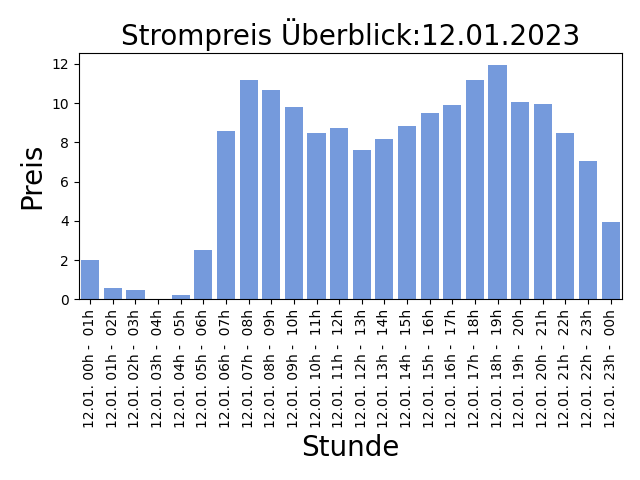
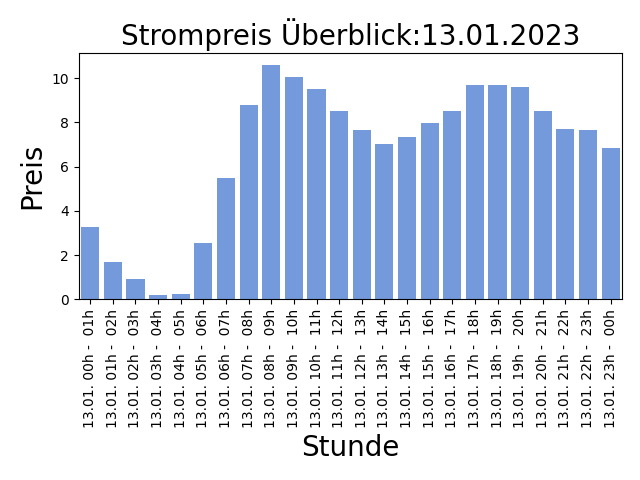
AUTOMATIC UPDATE PRICE LIST: 2023-01-12-14:30:47

diff --git a/README.md b/README.md
@@ -1,5 +1,5 @@
 
-## Strompreise für den 12.01.2023
+## Strompreise für den 13.01.2023
 
 Niedrige Preise deuten auf viel Sonnen und Windenergieerzeugung hin, ein hoher Anteil an erneuerbaren Energien bedeuted weniger CO2 Verbrauch!
 
@@ -7,31 +7,31 @@ Niedrige Preise deuten auf viel Sonnen und Windenergieerzeugung hin, ein hoher A
 
 | Stunde | Preis in Cent/kWh |
 |---|---|
-| 12.01. 00h -  01h | 1.988 | 
-| 12.01. 01h -  02h | 0.5549999999999999 | 
-| 12.01. 02h -  03h | 0.46900000000000003 | 
-| **12.01. 03h -  04h** | **0.01** | 
-| 12.01. 04h -  05h | 0.20299999999999999 | 
-| 12.01. 05h -  06h | 2.494 | 
-| 12.01. 06h -  07h | 8.572 | 
-| 12.01. 07h -  08h | 11.155 | 
-| 12.01. 08h -  09h | 10.683 | 
-| 12.01. 09h -  10h | 9.783 | 
-| 12.01. 10h -  11h | 8.474 | 
-| 12.01. 11h -  12h | 8.738 | 
-| 12.01. 12h -  13h | 7.587999999999999 | 
-| 12.01. 13h -  14h | 8.184000000000001 | 
-| 12.01. 14h -  15h | 8.82 | 
-| 12.01. 15h -  16h | 9.518 | 
-| 12.01. 16h -  17h | 9.908 | 
-| 12.01. 17h -  18h | 11.201 | 
-| 12.01. 18h -  19h | 11.949 | 
-| 12.01. 19h -  20h | 10.079 | 
-| 12.01. 20h -  21h | 9.934999999999999 | 
-| 12.01. 21h -  22h | 8.477 | 
-| 12.01. 22h -  23h | 7.043000000000001 | 
-| 12.01. 23h -  00h | 3.957 | 
+| 13.01. 00h -  01h | 3.2640000000000002 | 
+| 13.01. 01h -  02h | 1.6989999999999998 | 
+| 13.01. 02h -  03h | 0.9 | 
+| **13.01. 03h -  04h** | **0.202** | 
+| 13.01. 04h -  05h | 0.261 | 
+| 13.01. 05h -  06h | 2.5260000000000002 | 
+| 13.01. 06h -  07h | 5.474 | 
+| 13.01. 07h -  08h | 8.788 | 
+| 13.01. 08h -  09h | 10.595 | 
+| 13.01. 09h -  10h | 10.064 | 
+| 13.01. 10h -  11h | 9.485 | 
+| 13.01. 11h -  12h | 8.493 | 
+| 13.01. 12h -  13h | 7.6530000000000005 | 
+| 13.01. 13h -  14h | 7.023999999999999 | 
+| 13.01. 14h -  15h | 7.3549999999999995 | 
+| 13.01. 15h -  16h | 7.984999999999999 | 
+| 13.01. 16h -  17h | 8.531 | 
+| 13.01. 17h -  18h | 9.690000000000001 | 
+| 13.01. 18h -  19h | 9.697 | 
+| 13.01. 19h -  20h | 9.591 | 
+| 13.01. 20h -  21h | 8.494 | 
+| 13.01. 21h -  22h | 7.689 | 
+| 13.01. 22h -  23h | 7.651000000000001 | 
+| 13.01. 23h -  00h | 6.83 | 
 
 Preise der EPEX Spot ® Strombörse (neue Preise werden täglich um 14:00 veröffentlicht für den kompletten nächsten Tag).
 
-letzte Aktualisierung:11.01.2023 14:30
+letzte Aktualisierung:12.01.2023 14:30
